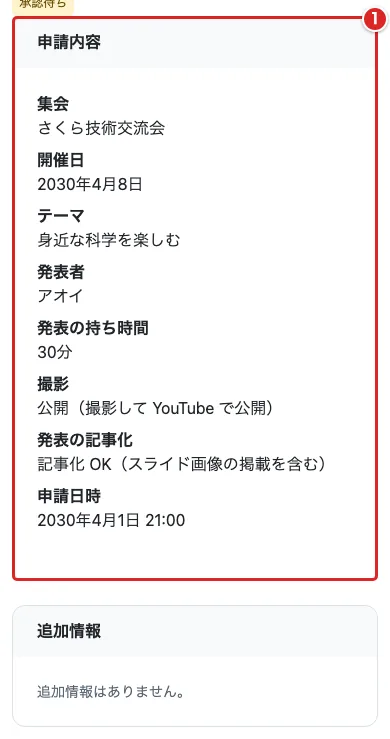
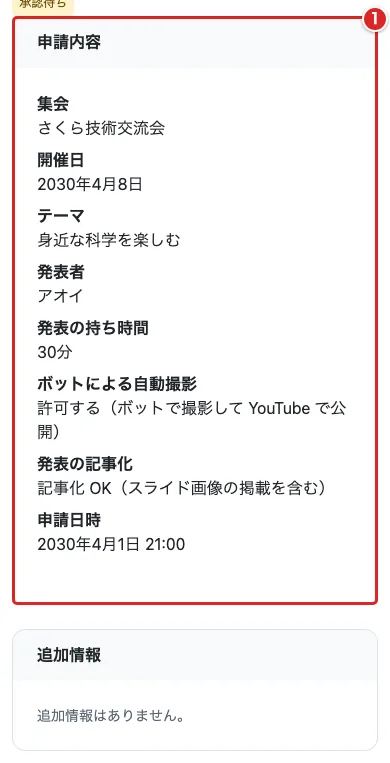
「ボットによる自動撮影」2択整理の残存箇所を統一 (#954)

diff --git a/app/community/templates/community/includes/lt_settings.html b/app/community/templates/community/includes/lt_settings.html
@@ -5,6 +5,7 @@
 <label for="recording_allowed_true"><input type="radio" id="recording_allowed_true" name="recording_allowed" value="true" {% if community.recording_allowed %}checked{% endif %} onchange="toggleRecordingSettings()"><span>許可する</span></label>
 <label for="recording_allowed_false"><input type="radio" id="recording_allowed_false" name="recording_allowed" value="false" {% if not community.recording_allowed %}checked{% endif %} onchange="toggleRecordingSettings()"><span>許可しない</span></label></div></div></div>
 <div id="default-recording-policy-section" style="{% if not community.recording_allowed %}display: none;{% endif %}"><div class="settings-field"><div class="settings-label">ボット撮影許可の初期値<small>発表申請フォームで、ボット撮影の初期値になります。登壇者は申請時に変えられます。</small></div><div class="settings-control" role="radiogroup" aria-label="ボット撮影許可の初期値">
+{% if default_recording_policy_legacy_notice %}<p class="form-text text-muted mb-2" id="default-recording-policy-legacy-notice">{{ default_recording_policy_legacy_notice }}</p>{% endif %}
 {% for value, label in recording_policy_choices %}<label><input type="radio" id="default_recording_policy_{{ value }}" name="default_recording_policy" value="{{ value }}" {% if community.default_recording_policy == value %}checked{% endif %} onchange="markRecordingPolicyTouched()"> {{ label }}</label>{% endfor %}
 <input type="hidden" id="default_recording_policy_chosen" name="default_recording_policy_chosen" value="">
 </div></div></div>

diff --git a/app/community/templates/community/settings.html b/app/community/templates/community/settings.html
@@ -24,7 +24,7 @@
 {% csrf_token %}{% include 'community/includes/settings_community_fields.html' %}
 </form>
 <section class="admin-card" id="applications">
-{% include 'community/includes/settings_heading.html' with title='発表の受付' icon='mic' description='発表申請フォームと、撮影・持ち時間の初期値です。' scope='発表受付' form_id='lt-form' only %}
+{% include 'community/includes/settings_heading.html' with title='発表の受付' icon='mic' description='発表申請フォームと、ボットによる自動撮影・持ち時間の初期値です。' scope='発表受付' form_id='lt-form' only %}
 {% include 'community/includes/lt_settings.html' %}
 </section>
 <section class="admin-card" id="integrations">

diff --git a/app/event/templates/event/includes/detail_form_field.html b/app/event/templates/event/includes/detail_form_field.html
@@ -10,12 +10,6 @@
         {% if field.help_text %}
             <div class="form-text ms-5">{{ field.help_text }}</div>
         {% endif %}
-    {% elif field.name == 'recording_policy' %}
-        <label class="form-label">{{ field.label }}</label>
-        {% include "event/includes/recording_policy_radios.html" with field=field %}
-        {% if field.help_text %}
-            <div class="form-text">{{ field.help_text }}</div>
-        {% endif %}
     {% else %}
         {{ field.label_tag }}
         {{ field }}

diff --git a/app/event/tests/test_special_recording.py b/app/event/tests/test_special_recording.py
@@ -42,7 +42,7 @@ class SpecialRecordingFormTest(TestCase):
                 form = self.form(instance=instance, recording_policy='public')
                 self.assertFalse(form.is_valid())
                 self.assertEqual(form.errors['special_recording_confirmed'], [
-                    '特別企画を撮影する時は、出演者全員に確認したことにチェックを入れてください。',
+                    '特別企画でボットによる自動撮影を許可する時は、出演者全員に確認したことにチェックを入れてください。',
                 ])
 
     def test_confirmed_saves_duration_theme_and_resets_confirmation(self):
@@ -147,8 +147,17 @@ class SpecialRecordingAdminTest(TestCase):
         })
 
     def test_both_admin_paths_use_guarded_form(self):
-        self.assertIs(EventDetailInline(Event, admin.site).form, EventDetailAdminForm)
-        self.assertIs(EventDetailAdmin(EventDetail, admin.site).form, EventDetailAdminForm)
+        inline_form_cls = EventDetailInline(Event, admin.site).form
+        admin_form_cls = EventDetailAdmin(EventDetail, admin.site).form
+        self.assertIs(inline_form_cls, EventDetailAdminForm)
+        self.assertIs(admin_form_cls, EventDetailAdminForm)
+        admin_form = admin_form_cls()
+        self.assertEqual(admin_form.fields['recording_policy'].label, 'ボットによる自動撮影')
+        self.assertIn('ハブの撮影ボット', admin_form.fields['recording_policy'].help_text)
+        self.assertIn(
+            '集会独自の撮影や参加者の写真撮影を制限する設定ではありません',
+            admin_form.fields['recording_policy'].help_text,
+        )
 
     def test_create_non_forbidden_and_type_or_policy_changes_are_rejected(self):
         for policy in ('public', 'allowed'):
@@ -161,6 +170,11 @@ class SpecialRecordingAdminTest(TestCase):
                     form = self.form(instance, recording_policy=policy)
                     self.assertFalse(form.is_valid())
                     self.assertIn('recording_policy', form.errors)
+                    if policy == 'public':
+                        self.assertEqual(
+                            form.errors['recording_policy'],
+                            ['特別企画のボットによる自動撮影は、主催者の発表の編集画面で出演者全員の確認をつけて設定してください'],
+                        )
 
     def test_forbidden_creation_and_unchanged_recording_can_be_saved(self):
         form = self.form(recording_policy='forbidden')
@@ -194,9 +208,14 @@ class SpecialRecordingScreenTest(TestCase):
         response = self.client.post(self.create_url, self.payload(special_recording_confirmed=False))
         self.assertEqual(response.status_code, 200)
         for text in ('name="recording_policy"', 'name="duration"', 'name="special_recording_confirmed"',
-                     '/guide/lt/create/#パネルを撮影する時の進め方', '出演者全員に、撮影と公開の可否を確認しました'):
+                     '/guide/lt/create/#パネルを撮影する時の進め方',
+                     '出演者全員に、ボットによる自動撮影と公開の可否を確認しました',
+                     '1 人でもボットによる自動撮影を望まない人がいる時は「許可しない（ボットで撮影しない）」を選んでください。'):
             self.assertContains(response, text)
-        self.assertContains(response, '特別企画を撮影する時は、出演者全員に確認したことにチェックを入れてください。')
+        self.assertContains(
+            response,
+            '特別企画でボットによる自動撮影を許可する時は、出演者全員に確認したことにチェックを入れてください。',
+        )
         self.assertContains(response, "show: ['h1', 'thumbnail_image', 'contents', 'start_time', 'duration', 'recording_policy', 'special_recording_confirmed']")
         self.assertContains(response, 'if (forbidden) forbidden.checked = true;')
         self.assertContains(response, "hide: ['special_recording_confirmed']")

diff --git a/app/community/tests/test_recording_consent.py b/app/community/tests/test_recording_consent.py
@@ -61,6 +61,8 @@ class RecordingAllowedSettingsViewTest(TestCase):
         response = self.client.get(reverse('community:settings'))
 
         self.assertEqual(response.status_code, 200)
+        self.assertContains(response, '発表申請フォームと、ボットによる自動撮影・持ち時間の初期値です。')
+        self.assertNotContains(response, '発表申請フォームと、撮影・持ち時間の初期値です。')
         self.assertContains(response, 'ハブの自動撮影ボットの対象になりません')
         html = response.content.decode()
         self.assertRegex(html, r'id="recording_allowed_true" name="recording_allowed" value="true"\s+checked')
@@ -159,6 +161,34 @@ class DefaultRecordingPolicySettingsTest(TestCase):
         public_pos = html.index('id="default_recording_policy_public"')
         forbidden_pos = html.index('id="default_recording_policy_forbidden"')
         self.assertLess(public_pos, forbidden_pos)
+
+    def test_settings_page_shows_legacy_notice_only_for_allowed_when_recording_allowed(self):
+        """既存 allowed の集会設定では、2 択未選択と現在値案内・未変更維持の説明を出し、未選択保存で保持する。"""
+        notice = '現在は「旧設定（撮影するが公開しない）」が設定されています。選択せずに保存すると現在の設定が維持されます。'
+        for recording_allowed, policy, expected_notice in (
+            (True, RecordingPolicy.PUBLIC, False),
+            (True, RecordingPolicy.FORBIDDEN, False),
+            (False, RecordingPolicy.ALLOWED, False),
+            (True, RecordingPolicy.ALLOWED, True),
+        ):
+            with self.subTest(recording_allowed=recording_allowed, policy=policy):
+                self.community.recording_allowed = recording_allowed
+                self.community.default_recording_policy = policy
+                self.community.save(update_fields=['recording_allowed', 'default_recording_policy'])
+                html = self.client.get(reverse('community:settings')).content.decode()
+                if expected_notice:
+                    self.assertIn(notice, html)
+                    self.assertNotRegex(html, r'id="default_recording_policy_public"[^>]*checked')
+                    self.assertNotRegex(html, r'id="default_recording_policy_forbidden"[^>]*checked')
+                else:
+                    self.assertNotIn(notice, html)
+
+        self.community.recording_allowed = True
+        self.community.default_recording_policy = RecordingPolicy.ALLOWED
+        self.community.save(update_fields=['recording_allowed', 'default_recording_policy'])
+        self._post(default_recording_policy_chosen='1')
+        self.community.refresh_from_db()
+        self.assertEqual(self.community.default_recording_policy, RecordingPolicy.ALLOWED)
 
     def test_each_choice_is_saved(self):
         """2 つの値それぞれを保存できる。"""
@@ -541,6 +571,13 @@ class CommunityAdminFormRecordingPolicyTest(TestCase):
         from community.forms import CommunityForm
 
         new_form = CommunityForm()
+        self.assertEqual(new_form.fields['recording_allowed'].label, 'ボットによる自動撮影の許可')
+        self.assertIn(
+            '集会独自の撮影や写真撮影を制限する設定ではありません',
+            new_form.fields['recording_allowed'].help_text,
+        )
+        self.assertEqual(new_form.fields['default_recording_policy'].label, 'ボット撮影許可の初期値')
+        self.assertIn('ボットによる自動撮影', new_form.fields['default_recording_policy'].help_text)
         self.assertEqual(
             list(new_form.fields['default_recording_policy'].choices),
             [

diff --git a/app/community/forms.py b/app/community/forms.py
@@ -4,6 +4,7 @@ from django.forms.widgets import CheckboxSelectMultiple
 
 from .constants import (
     WEEKDAY_CHOICES, RECORDING_POLICY_FORM_CHOICES, recording_policy_admin_choices,
+    RECORDING_ALLOWED_LABEL, DEFAULT_RECORDING_POLICY_LABEL, DEFAULT_RECORDING_POLICY_ADMIN_HELP_TEXT,
     MAX_LT_DURATION_MINUTES, MAX_LT_START_OFFSET_MINUTES,
 )
 from .recording_settings import _parse_recording_allowed, _resolve_default_recording_policy
@@ -85,12 +86,21 @@ class CommunityForm(VrcGroupUrlMixin, forms.ModelForm):
 
     def __init__(self, *args, **kwargs):
         super().__init__(*args, **kwargs)
+        if 'recording_allowed' in self.fields:
+            self.fields['recording_allowed'].label = RECORDING_ALLOWED_LABEL
+            self.fields['recording_allowed'].help_text = (
+                'オンにすると、この集会の発表がハブの自動撮影ボットの対象になります'
+                '（オフの場合は発表申請も「許可しない」で受け付けます。'
+                '集会独自の撮影や写真撮影を制限する設定ではありません）。'
+            )
         if 'default_recording_policy' in self.fields:
             current_policy = (
                 self.instance.default_recording_policy
                 if self.instance and self.instance.pk
                 else None
             )
+            self.fields['default_recording_policy'].label = DEFAULT_RECORDING_POLICY_LABEL
+            self.fields['default_recording_policy'].help_text = DEFAULT_RECORDING_POLICY_ADMIN_HELP_TEXT
             self.fields['default_recording_policy'].choices = recording_policy_admin_choices(current_policy)
         if self.instance and self.instance.pk:
             self.initial['weekdays'] = self.instance.weekdays
@@ -218,15 +228,19 @@ class CommunityCreateForm(VrcGroupUrlMixin, forms.ModelForm):
         initial='on',
     )
     recording_allowed = forms.CharField(
-        label='ボットによる自動撮影の許可',
+        label=RECORDING_ALLOWED_LABEL,
         required=False,
         strip=False,
         initial='false',
         widget=forms.RadioSelect(choices=[('true', '許可する'), ('false', '許可しない')]),
-        help_text='「許可しない」場合はハブの自動撮影ボットの対象にならず、発表申請も「許可しない」で受け付けます。',
+        help_text=(
+            '「許可しない」場合はハブの自動撮影ボットの対象にならず、'
+            '発表申請も「許可しない」で受け付けます'
+            '（集会独自の撮影や写真撮影を制限する設定ではありません）。'
+        ),
     )
     default_recording_policy = forms.CharField(
-        label='ボット撮影許可の初期値',
+        label=DEFAULT_RECORDING_POLICY_LABEL,
         required=False,
         strip=False,
         widget=forms.RadioSelect(choices=RECORDING_POLICY_FORM_CHOICES),

diff --git a/app/event/forms/event_detail.py b/app/event/forms/event_detail.py
@@ -34,7 +34,7 @@ from .mixins import (
 
 class EventDetailForm(EventDetailMediaFormMixin, RecordingPolicyFormMixin, forms.ModelForm):
     special_recording_confirmed = forms.BooleanField(
-        label='出演者全員に、撮影と公開の可否を確認しました',
+        label='出演者全員に、ボットによる自動撮影と公開の可否を確認しました',
         required=False,
         initial=False,
         widget=forms.CheckboxInput(attrs={
@@ -42,7 +42,7 @@ class EventDetailForm(EventDetailMediaFormMixin, RecordingPolicyFormMixin, forms
             'aria-describedby': 'id_special_recording_confirmed_help',
         }),
         help_text=mark_safe(
-            '1 人でも撮影を望まない人がいる時は「許可しない（ボットで撮影しない）」を選んでください。'
+            '1 人でもボットによる自動撮影を望まない人がいる時は「許可しない（ボットで撮影しない）」を選んでください。'
             '開始前に、質疑などでの発言も録音されることを参加者へ案内してください。'
             '<a href="/guide/lt/create/#パネルを撮影する時の進め方" target="_blank" rel="noopener">'
             'パネルを撮影する時の進め方</a>'
@@ -293,7 +293,7 @@ class EventDetailForm(EventDetailMediaFormMixin, RecordingPolicyFormMixin, forms
             ):
                 self.add_error(
                     'special_recording_confirmed',
-                    '特別企画を撮影する時は、出演者全員に確認したことにチェックを入れてください。',
+                    '特別企画でボットによる自動撮影を許可する時は、出演者全員に確認したことにチェックを入れてください。',
                 )
         elif detail_type == 'BLOG':
             # ブログのデフォルト値（h1があればthemeにコピー）

diff --git a/app/event/forms/mixins.py b/app/event/forms/mixins.py
@@ -16,7 +16,11 @@ from django.utils.functional import lazy
 from django.utils.html import format_html
 from django.utils.safestring import mark_safe
 
-from community.constants import RECORDING_POLICY_FORM_CHOICES
+from community.constants import (
+    LEGACY_RECORDING_POLICY_NOTICE,
+    RECORDING_POLICY_FORM_CHOICES,
+    RECORDING_POLICY_LABEL as RECORDING_POLICY_LABEL,
+)
 
 from ..form_validators import validate_and_sanitize_pdf, validate_thumbnail_image
 from ..models import ARTICLE_BODY_FIELDS, SLIDE_FETCH_FIELDS, EventDetail, article_body_hash
@@ -26,7 +30,6 @@ logger = logging.getLogger(__name__)
 # 編集画面を開いた時点の記事のハッシュを持たせる hidden の項目
 ARTICLE_SNAPSHOT_FIELD = 'article_snapshot'
 
-RECORDING_POLICY_LABEL = 'ボットによる自動撮影'
 # 固定の文言と URL だけを HTML として扱い、テンプレートの autoescape は維持する。
 RECORDING_POLICY_HELP_TEXT = mark_safe(
     'ハブの撮影ボットによる録画・YouTube 公開の可否です'
@@ -355,8 +358,7 @@ class RecordingPolicyFormMixin:
             and instance.recording_policy == EventDetail.RecordingPolicy.ALLOWED
         )
         self.fields['recording_policy'].legacy_notice = (
-            '現在は「旧設定（撮影するが公開しない）」が設定されています。'
-            '選択せずに保存すると現在の設定が維持されます。'
+            LEGACY_RECORDING_POLICY_NOTICE
             if is_legacy_allowed
             else ''
         )

diff --git a/app/event/admin.py b/app/event/admin.py
@@ -6,7 +6,12 @@ from django.urls import path
 from django.shortcuts import render, redirect
 from django.utils import timezone
 
-from community.constants import recording_policy_admin_choices, weekday_code
+from community.constants import (
+    RECORDING_POLICY_ADMIN_HELP_TEXT,
+    RECORDING_POLICY_LABEL,
+    recording_policy_admin_choices,
+    weekday_code,
+)
 
 from .models import ARTICLE_CONTROL_FIELDS, Event, EventDetail, RecurrenceRule
 
@@ -22,6 +27,8 @@ class EventDetailAdminForm(forms.ModelForm):
         self._original_recording_policy = self.instance.recording_policy
         if 'recording_policy' in self.fields:
             current_policy = self.instance.recording_policy if self.instance.pk else None
+            self.fields['recording_policy'].label = RECORDING_POLICY_LABEL
+            self.fields['recording_policy'].help_text = RECORDING_POLICY_ADMIN_HELP_TEXT
             self.fields['recording_policy'].choices = recording_policy_admin_choices(current_policy)
 
     def clean(self):
@@ -39,7 +46,7 @@ class EventDetailAdminForm(forms.ModelForm):
         ):
             self.add_error(
                 'recording_policy',
-                '特別企画の撮影は、主催者の発表の編集画面で出演者全員の確認をつけて設定してください',
+                '特別企画のボットによる自動撮影は、主催者の発表の編集画面で出演者全員の確認をつけて設定してください',
             )
         return cleaned
 

diff --git a/app/community/views/admin_ui.py b/app/community/views/admin_ui.py
@@ -5,7 +5,12 @@ from django.urls import reverse
 from django.utils import timezone
 from website.discord_delivery import select_community_discord_delivery
 
-from ..constants import DEFAULT_LT_APPLICATION_TEMPLATE, RECORDING_POLICY_FORM_CHOICES
+from ..constants import (
+    DEFAULT_LT_APPLICATION_TEMPLATE,
+    LEGACY_RECORDING_POLICY_NOTICE,
+    RECORDING_POLICY_FORM_CHOICES,
+    RecordingPolicy,
+)
 from ..forms import CommunityUpdateForm
 from ..models import BotInstallation, CommunityInvitation
 from .bot_install import bot_install_enabled
@@ -49,6 +54,11 @@ def settings_display(context, community, request):
     context['bot_installations'].sort(key=lambda item: item.status != BotInstallation.Status.INSTALLED)
     context['lt_application_template_display'] = community.lt_application_template or DEFAULT_LT_APPLICATION_TEMPLATE
     context['recording_policy_choices'] = RECORDING_POLICY_FORM_CHOICES
+    context['default_recording_policy_legacy_notice'] = (
+        LEGACY_RECORDING_POLICY_NOTICE
+        if community.recording_allowed and community.default_recording_policy == RecordingPolicy.ALLOWED
+        else ''
+    )
     context['webhook_has_error'] = any(
         'webhook-error' in message.tags.split() for message in get_messages(request)
     )

diff --git a/app/community/constants.py b/app/community/constants.py
@@ -81,6 +81,21 @@ RECORDING_POLICY_DISPLAY_LABELS = {
     RecordingPolicy.ALLOWED.value: '旧設定（撮影するが公開しない）',
 }
 
+RECORDING_POLICY_LABEL = 'ボットによる自動撮影'
+RECORDING_POLICY_ADMIN_HELP_TEXT = (
+    'ハブの撮影ボットによる録画・YouTube 公開の可否です'
+    '（集会独自の撮影や参加者の写真撮影を制限する設定ではありません）。'
+)
+RECORDING_ALLOWED_LABEL = 'ボットによる自動撮影の許可'
+DEFAULT_RECORDING_POLICY_LABEL = 'ボット撮影許可の初期値'
+DEFAULT_RECORDING_POLICY_ADMIN_HELP_TEXT = (
+    '発表申請フォームで、ボットによる自動撮影の初期値になります。登壇者は申請時に変えられます。'
+)
+LEGACY_RECORDING_POLICY_NOTICE = (
+    f'現在は「{RECORDING_POLICY_DISPLAY_LABELS[RecordingPolicy.ALLOWED.value]}」が設定されています。'
+    '選択せずに保存すると現在の設定が維持されます。'
+)
+
 
 def recording_policy_admin_choices(current_value: str | None) -> list[tuple[str, str]]:
     """Django 管理画面向け選択肢。新規・現行値では 2 択のみ、既存 allowed 編集時のみ現在値を保持できるよう含める。"""

diff --git a/app/community/tests/test_community_create.py b/app/community/tests/test_community_create.py
@@ -238,6 +238,11 @@ class CommunityCreateViewTest(TestCase):
         self.assertEqual(form['default_recording_policy'].value(), RecordingPolicy.PUBLIC)
         self.assertEqual(form['default_lt_duration'].value(), 30)
         self.assertEqual(form['lt_start_offset_minutes'].value(), 30)
+        self.assertIn(
+            '（集会独自の撮影や写真撮影を制限する設定ではありません）',
+            form.fields['recording_allowed'].help_text,
+        )
+        self.assertContains(response, '（集会独自の撮影や写真撮影を制限する設定ではありません）')
         for label in (
             'Discord 通知', 'VRCイベントカレンダー', 'X の告知テンプレート',
             'メンバー', 'API キー', '発表申請の追加情報テンプレート',
